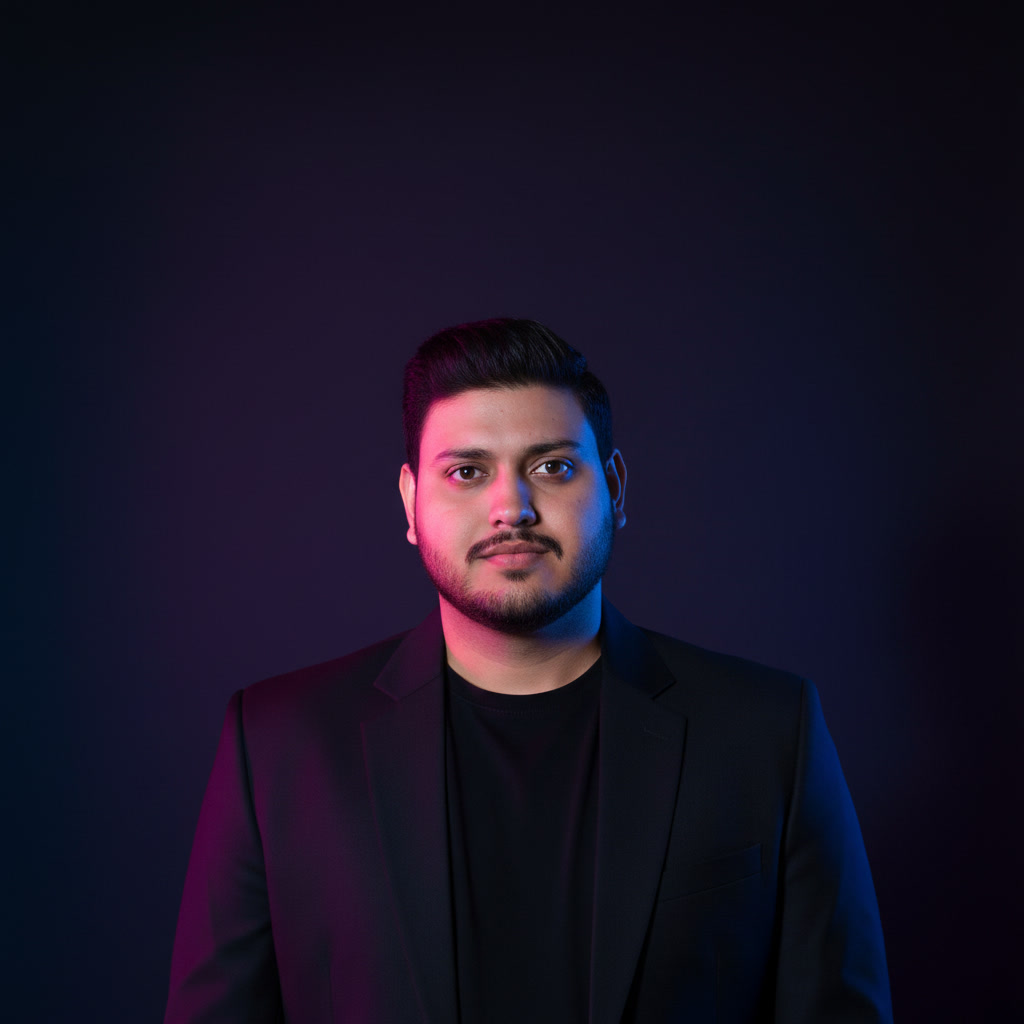
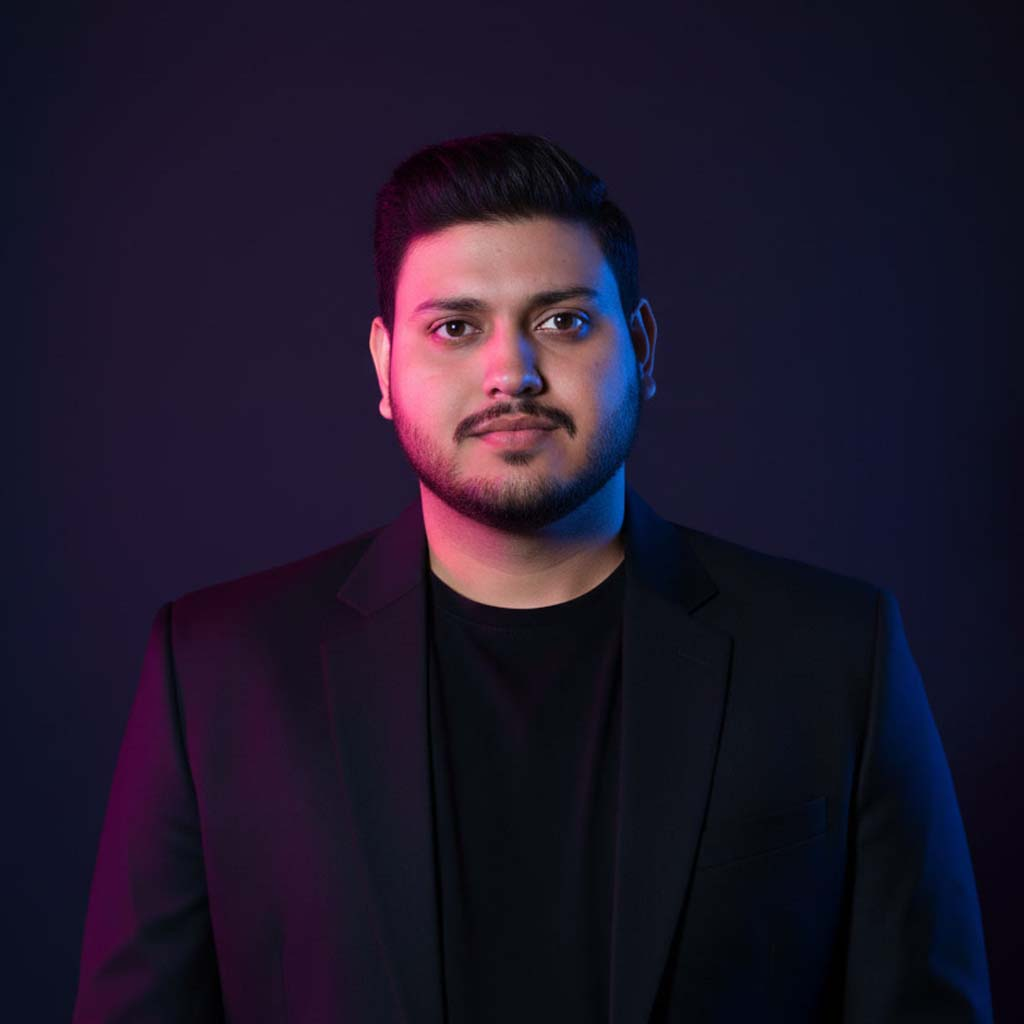
About Img Added

diff --git a/index.html b/index.html
@@ -86,7 +86,11 @@
                 <div class="about-grid">
                     <div class="about-image">
                         <div class="glass-card image-card">
-                            <div class="inner-img-placeholder"></div>
+                            <div class="inner-img-placeholder">
+                                <!-- Replace 'About-IMG.jpg' with your actual image path -->
+                                <img src="images/About-IMG.jpg" alt="About Syed Daim Raza"
+                                    style="width: 100%; height: 100%; object-fit: cover; border-radius: 10px;">
+                            </div>
                         </div>
                     </div>
                     <div class="about-text">

diff --git a/style.css b/style.css
@@ -308,8 +308,9 @@ body {
 }
 
 .glow-btn-outline:hover {
-    background: rgba(0, 255, 255, 0.1);
-    box-shadow: 0 0 20px rgba(0, 255, 255, 0.2);
+    scale: 1.05;
+    background: oklch(78.558% 0.14794 224.301 / 0.1);
+    box-shadow: 0 0 20px rgba(0, 255, 255, 0.5);
 }
 
 .hero-content-right {
@@ -438,7 +439,6 @@ body {
 }
 
 .inner-img-placeholder::after {
-    content: 'Visual Focus';
     position: absolute;
     top: 50%;
     left: 50%;
